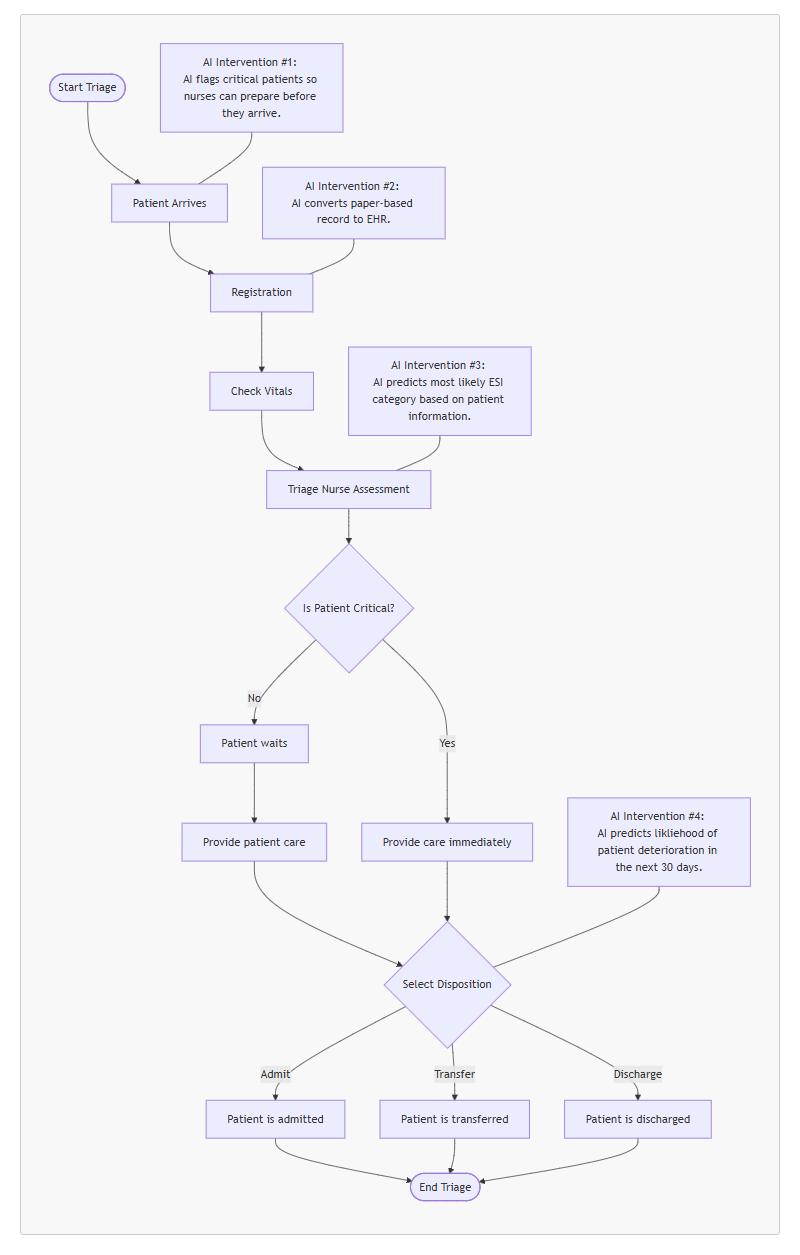
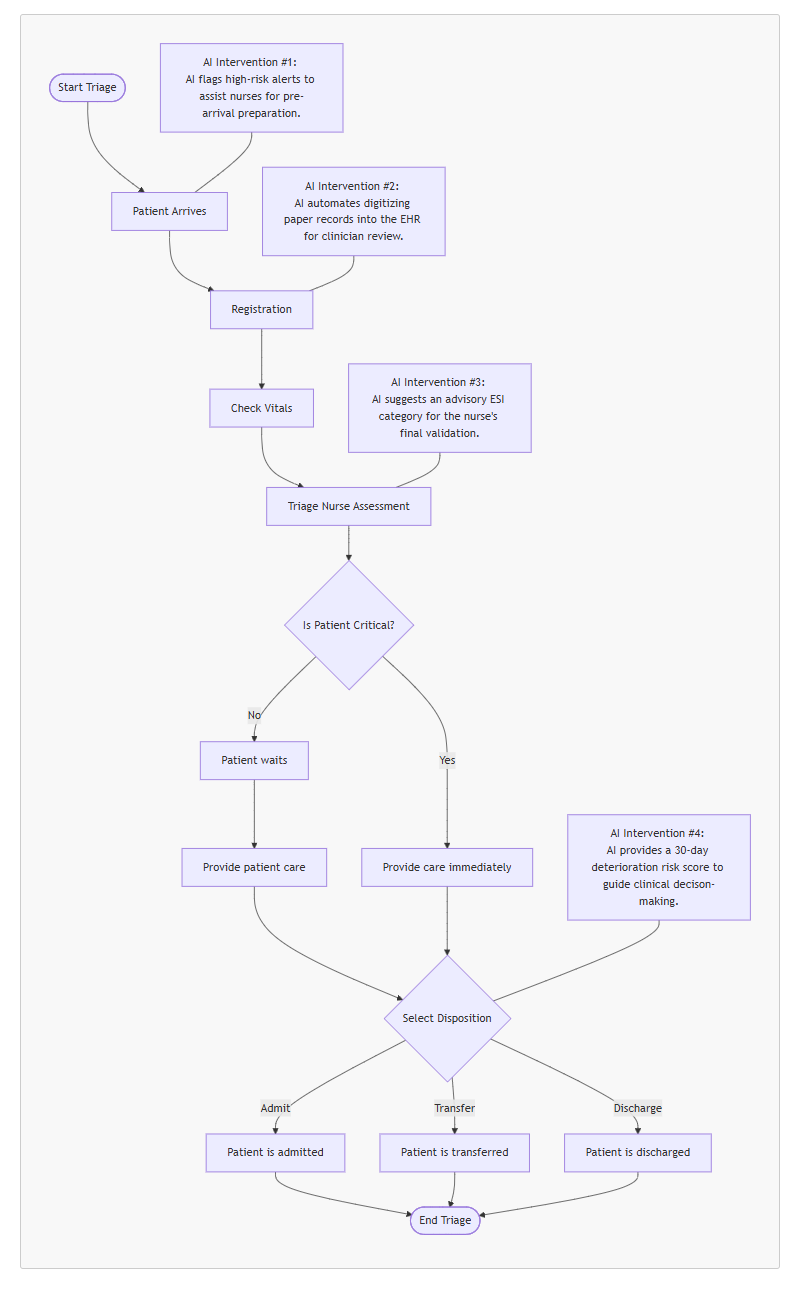
updated the triage workflow diagrams

diff --git a/docs/week-3/triage-flow.md b/docs/week-3/triage-flow.md
@@ -21,15 +21,15 @@ flowchart TB
     l --> finish
     m --> finish
 
-    ai_1[AI Intervention #1: <br>AI flags critical patients so nurses can prepare before they arrive. ]
+    ai_1[AI Intervention #1: <br>AI flags high-risk alerts to assist nurses for pre-arrival preparation. ]
     ai_1 --- a
 
-    ai_2[AI Intervention #2: <br>AI converts paper-based record to EHR. ]
+    ai_2[AI Intervention #2: <br>AI automates digitizing paper records into the EHR for clinician review. ]
     ai_2 --- b
 
-    ai_3[AI Intervention #3: <br>AI predicts most likely ESI category based on patient information.]
+    ai_3[AI Intervention #3: <br>AI suggests an advisory ESI category for the nurse's final validation.]
     ai_3 --- e
 
-    ai_4[AI Intervention #4: <br>AI predicts likliehood of patient deterioration in the next 30 days.]
-    ai_4 --- j
+    ai_4[AI Intervention #4: <br>AI provides a 30-day deterioration risk score to guide clinical decison-making.]
+    ai_4 --- j  
 ```
